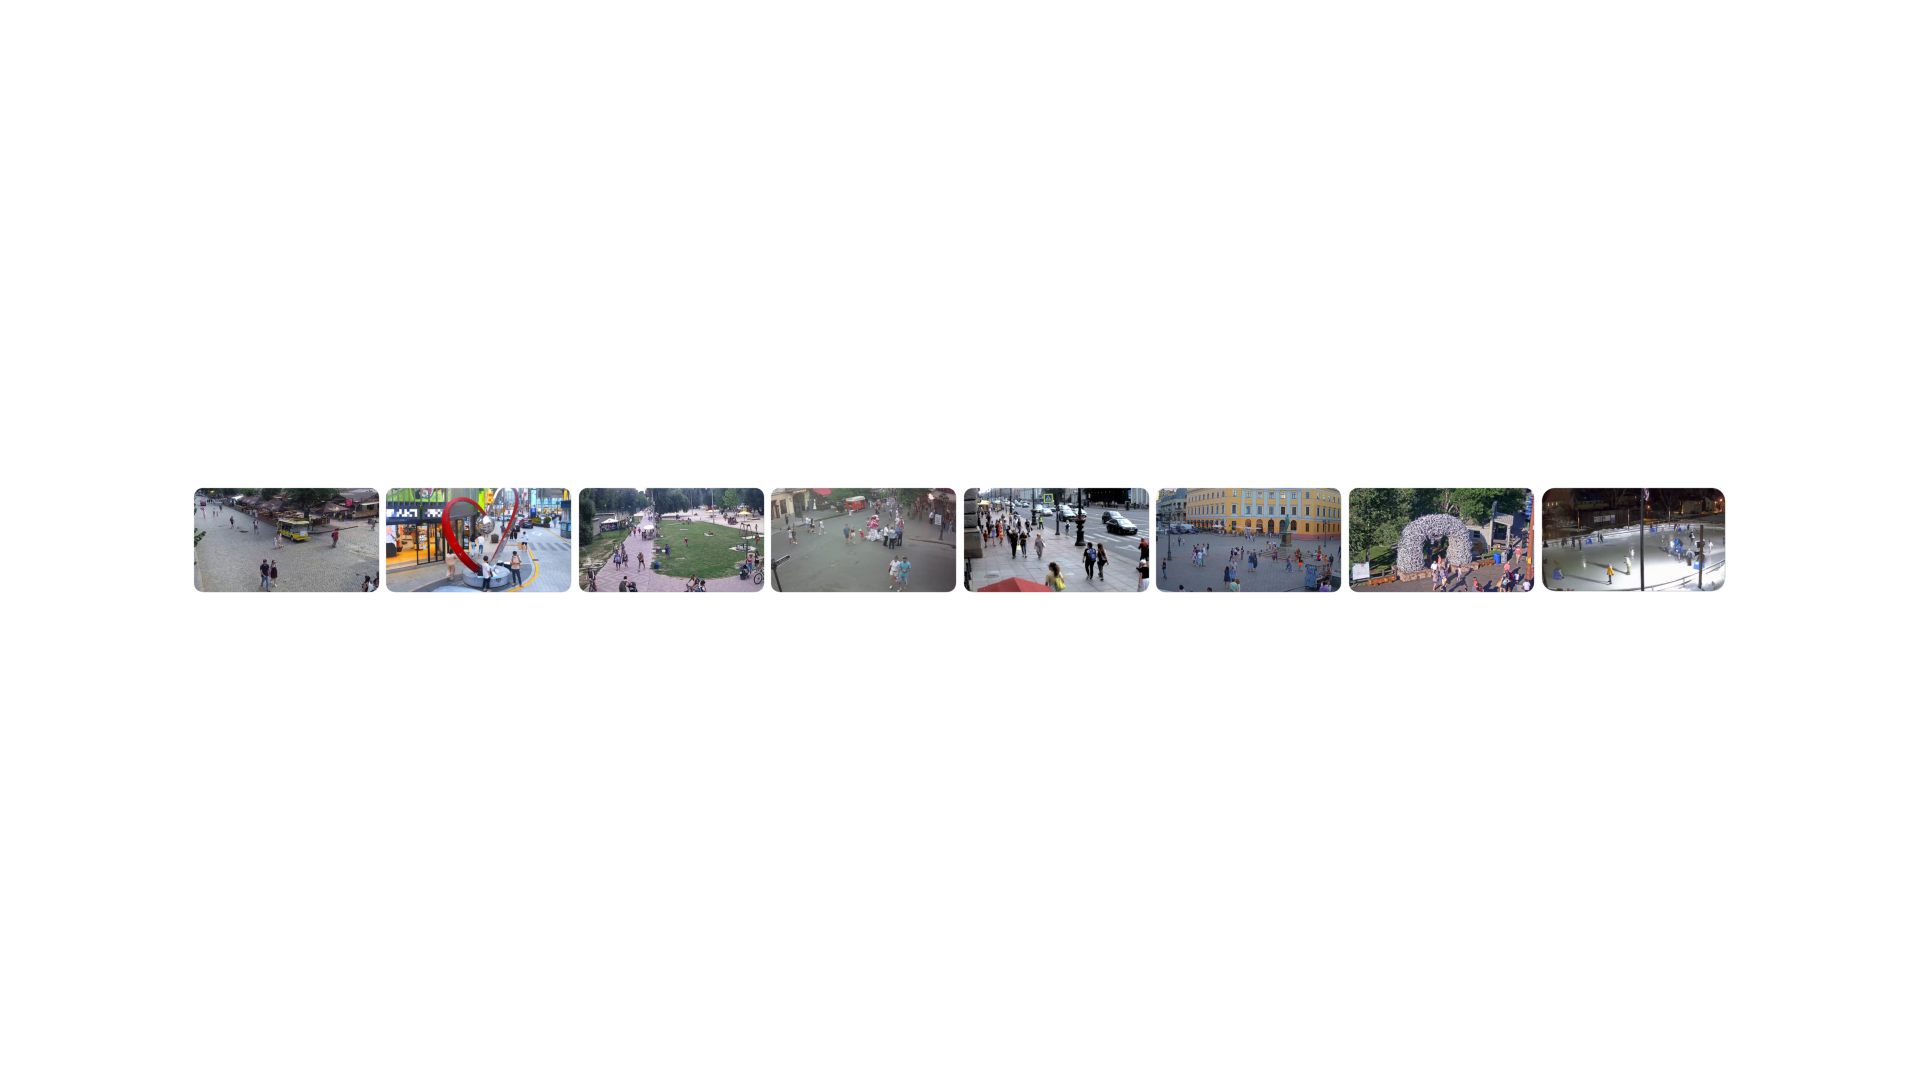
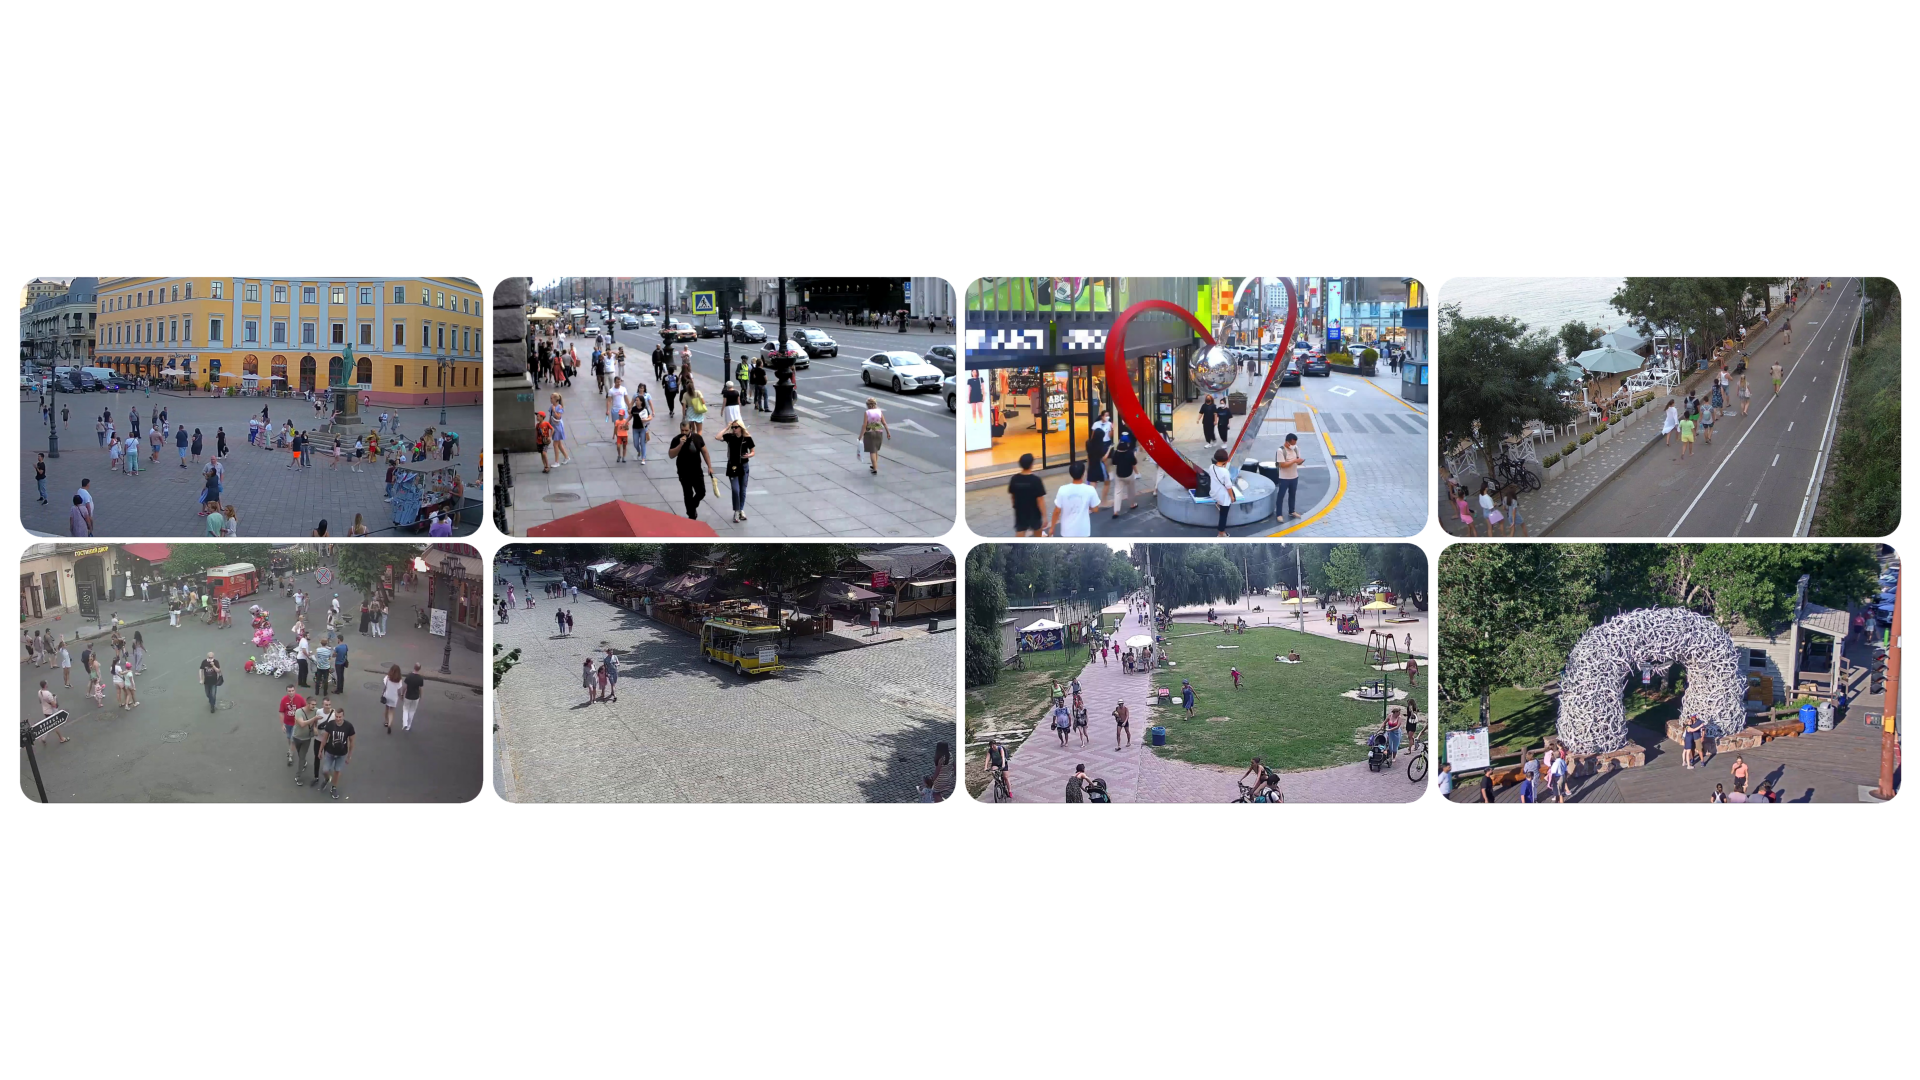
album is reshaped

diff --git a/imageEditor.py b/imageEditor.py
@@ -9,7 +9,7 @@ from operator import itemgetter
 
 import matplotlib.pyplot as plt
 import requests
-from cairosvg import svg2png
+#from cairosvg import svg2png
 
 def rect_with_rounded_corners(image, r, t, c):
     """
@@ -59,9 +59,9 @@ def rect_with_rounded_corners(image, r, t, c):
     return new_image
 
 
-"""
-images_dir = '/mnt/disk1/trackeveryseason/album/'
-fig, axes = plt.subplots(nrows=1, ncols=8,figsize=(19.2, 10.8))
+
+images_dir = '/home/fatih/mnt/trackeveryseason/album/'
+fig, axes = plt.subplots(nrows=2, ncols=4,figsize=(19.2, 10.8))
 seqs = os.listdir(images_dir)
 for ix, seq in enumerate(seqs):
     img = os.listdir(images_dir + seq)
@@ -69,14 +69,19 @@ for ix, seq in enumerate(seqs):
     # cv2.imshow('{}'.format(seq), new_img)
     new_img = rect_with_rounded_corners(new_img, 100, 20, (255, 255, 255))
     new_img = cv2.cvtColor(new_img, cv2.COLOR_BGR2RGB)
-    axes[ix].imshow(new_img)
-    axes[ix].axis('off')
-plt.subplots_adjust(left=0.1,
-                    bottom=0.1,
-                    right=0.9,
-                    top=0.9,
-                    wspace=0.02,
-                    hspace=0.1)
+    row = ix / 4
+    col = ix % 4
+    axes[int(row),col].imshow(new_img)
+    axes[int(row),col].axis('off')
+"""
+plt.subplots_adjust(left=0,
+                    bottom=0,
+                    right=1,
+                    top=1,
+                    wspace=0,
+                    hspace=0)
+"""
+fig.tight_layout(h_pad=-100, w_pad = 0)
 plt.savefig('album.png', dpi=100)
 fig.show()
 plt.axis('off')
@@ -84,4 +89,5 @@ plt.axis('off')
 new_img = cv2.imread('album.png')
 crop_img = new_img[480:600, 190:1730]
 cv2.imwrite('album_crop.png', crop_img)
+"""
 
